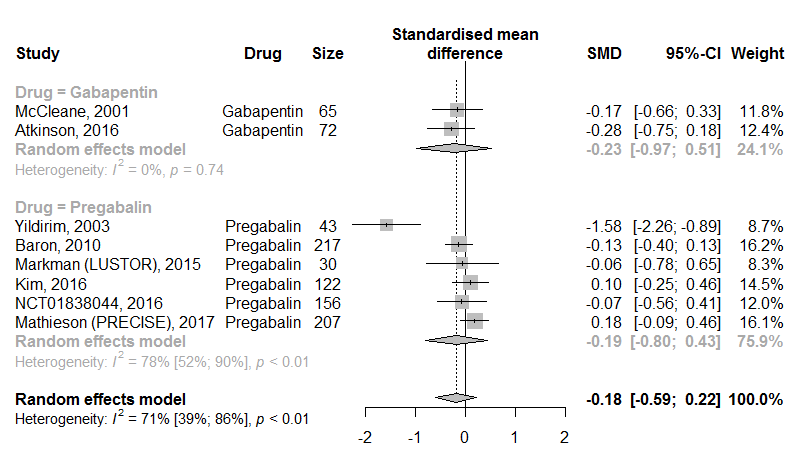
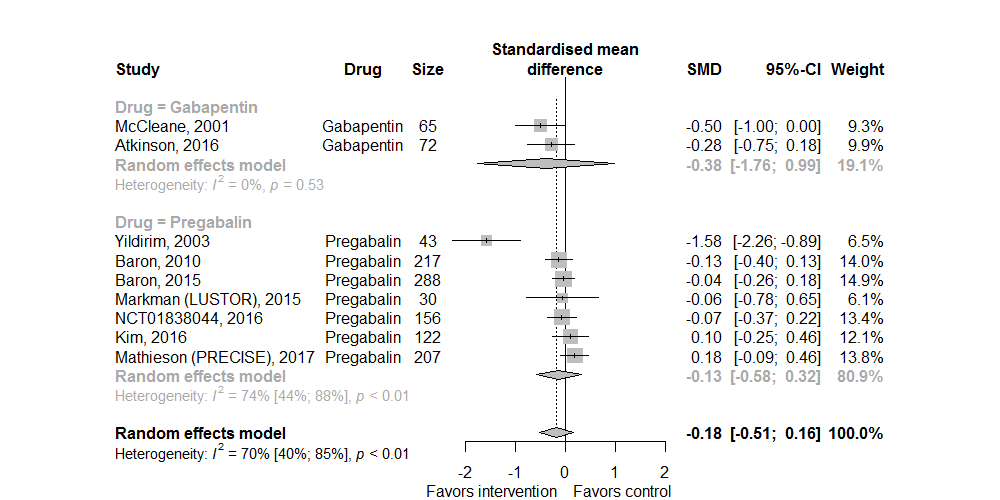
Updates with Baron, 2015

diff --git a/files/study-details/pico-table.md b/files/study-details/pico-table.md
@@ -4,14 +4,15 @@
 ## Randomized controlled trials
 Study                                                           |Patients/population/problem|Intervention|Comparison|Outcome|
 ----------------------------------------------------------------|---------------------------|------------|----------|-------|
-|Mathieson (PRECISE)<br>2017<br>PMID [28328324](http://pubmed.gov/28328324)<br>[ACTRN12613000530729](https://www.anzctr.org.au/Trial/Registration/TrialReview.aspx?id=364108) |Adults with sciatica for at least one week.<br> • Duration of leg pain: 2 months average| Pregabalin up to 300 mg twice daily | Placebo |At 8 weeks:<br> • 0 to 10 Numeric rating scale (NRS) for leg pain<br>• Roland Disability Questionnaire for Sciatica|
-|Atkinson<br>2016<br>PMID [26963844](http://pubmed.gov/26963844)<br>[NCT00108550](http://clinicaltrials.gov/show/NCT00108550)|Adults with nonspecific lumbar pain for 6 months or more.<br>• Duration of symptoms: 17 years average<br>• Subgrouped by pain with radiating pain. | Gabapentin up to 1200 mg three times a day| Placebo|At 12 weeks:<br>•  Descriptor Differential Scale (DDS)<br>• 0 to 10 Numeric rating scale (NRS)<br>• Oswestry Disability Index (ODI)|
-|Kim<br>2016<br>PMID [27045252](http://pubmed.gov/27045252)<br>[NCT01888536](http://clinicaltrials.gov/show/NCT01888536)|Adults with lumbar spinal stenosis.<br>• All patients were taking limaprost as part of a crossover trial.<br> • Duration of symptoms: 7 months average  | Pregabalin 75 mg three times a day| Placebo|At 8 weeks:<br>•  Descriptor Differential Scale (DDS)<br>• 0 to 10 Numeric rating scale (NRS)<br>• Oswestry Disability Index (ODI)<br>• Leg pain measured by visual analogue scale (VAS)<br>• Other outcomes|
-| NCT01838044 <br>2016<br>[NCT01838044](https://clinicaltrials.gov/show/NCT01838044) |Adults with chronic low back pain and "high probability of a significant neuropathic component "<br> • All patients were taking celecoxib<br> • Duration of symptoms: 3 months to 4 years| Pregabalin up to 300 mg daily |Placebo|At 5 and 10 weeks:<br>• 0 to 10 Numeric rating scale (NRS)<br>• Others|
-|Markman<br>2015<br>PMID [25503625](http://pubmed.gov/25503625)<br>[NCT00638443](http://clinicaltrials.gov/show/NCT00638443)|Adults with neurogenic claudication.<br>• Cross-over trial with 7 day washout between periods.<br>• Duration of symptoms: > 3 months with most > one year.  | Pregabalin 150 mg twice day| Placebo|At 10 days:<br>•  Descriptor Differential Scale (DDS)<br>• 0 to 10 Numeric rating scale (NRS)<br>• Oswestry Disability Index (ODI)<br>• Other outcomes|
-| Baron (A0081007 Investigators)<br>2010<br>PMID [20493632](http://pubmed.gov/20493632) |Adults with chronic lumbosacral radiculopathy due to spinal stenosis or disk herniation for at least 3 months.<br>•  Subjects must have responded to run in pregabalin but not to placebo<br> • Duration of symptoms: not reported | Pregabalin up to 600 mg daily|Placebo|At six weeks:<br>• 0 to 10 Numeric rating scale (NRS)<br>• Time to loss of response (LOR)<br>• Others|
-| Yildirim <br>2003<br>DOI [10.1163/156856903767650718](http://dx.doi.org/10.1163/156856903767650718) |Adults with chronic lumbosacral radiculopathy due to disk bulging or protrusion<br> • Duration of symptoms: 67 months average<br>•  Excluded patients intolerant of gabapentin| Gabapentin up to 1200 mg three times daily |Placebo|At eight weeks:<br>• 0 to 3 Numeric rating scale (NRS)
 | McCleane <br>2001<br>DOI [10.1163/156856901753420945](http://dx.doi.org/10.1163/156856901753420945) |Adults with low back pain and associated referred leg pain<br> • Duration of symptoms: pending full text| Gabapentin up to 1200 mg dailypentin |Placebo|At eight weeks:<br>• 0 to 10 Numeric rating scale (NRS)<br>• Others|
+| Yildirim <br>2003<br>DOI [10.1163/156856903767650718](http://dx.doi.org/10.1163/156856903767650718) |Adults with chronic lumbosacral radiculopathy due to disk bulging or protrusion<br> • Duration of symptoms: 67 months average<br>•  Excluded patients intolerant of gabapentin| Gabapentin up to 1200 mg three times daily |Placebo|At eight weeks:<br>• 0 to 3 Numeric rating scale (NRS)
+| Baron (A0081007 Investigators)<br>2010<br>PMID [20493632](http://pubmed.gov/20493632) |Adults with chronic lumbosacral radiculopathy due to spinal stenosis or disk herniation for at least 3 months.<br>•  Subjects must have responded to run in pregabalin but not to placebo<br> • Duration of symptoms: not reported | Pregabalin up to 600 mg daily|Placebo|At six weeks:<br>• 0 to 10 Numeric rating scale (NRS)<br>• Time to loss of response (LOR)<br>• Others|
+| Baron<br>2015<br>PMID [24738609](http://pubmed.gov/24738609) |Adults with chronic low back pain with neuopathic componenet.<br>•  Subjects were all taking tapentadol<br> • Duration of symptoms for at least 3 months | Pregabalin up to 300 mg daily|Placebo|At eight weeks:<br>• 0 to 10 Numeric rating scale (NRS)<br>• Others|
+| Atkinson<br>2016<br>PMID [26963844](http://pubmed.gov/26963844)<br>[NCT00108550](http://clinicaltrials.gov/show/NCT00108550)|Adults with nonspecific lumbar pain for 6 months or more.<br>• Duration of symptoms: 17 years average<br>• Subgrouped by pain with radiating pain. | Gabapentin up to 1200 mg three times a day| Placebo|At 12 weeks:<br>•  Descriptor Differential Scale (DDS)<br>• 0 to 10 Numeric rating scale (NRS)<br>• Oswestry Disability Index (ODI)|
+| Kim<br>2016<br>PMID [27045252](http://pubmed.gov/27045252)<br>[NCT01888536](http://clinicaltrials.gov/show/NCT01888536)|Adults with lumbar spinal stenosis.<br>• All patients were taking limaprost as part of a crossover trial.<br> • Duration of symptoms: 7 months average  | Pregabalin 75 mg three times a day| Placebo|At 8 weeks:<br>•  Descriptor Differential Scale (DDS)<br>• 0 to 10 Numeric rating scale (NRS)<br>• Oswestry Disability Index (ODI)<br>• Leg pain measured by visual analogue scale (VAS)<br>• Other outcomes|
+| NCT01838044 <br>2016<br>[NCT01838044](https://clinicaltrials.gov/show/NCT01838044) |Adults with chronic low back pain and "high probability of a significant neuropathic component "<br> • All patients were taking celecoxib<br> • Duration of symptoms: 3 months to 4 years| Pregabalin up to 300 mg daily |Placebo|At 5 and 10 weeks:<br>• 0 to 10 Numeric rating scale (NRS)<br>• Others|
+| Markman<br>2015<br>PMID [25503625](http://pubmed.gov/25503625)<br>[NCT00638443](http://clinicaltrials.gov/show/NCT00638443)|Adults with neurogenic claudication.<br>• Cross-over trial with 7 day washout between periods.<br>• Duration of symptoms: > 3 months with most > one year.  | Pregabalin 150 mg twice day| Placebo|At 10 days:<br>•  Descriptor Differential Scale (DDS)<br>• 0 to 10 Numeric rating scale (NRS)<br>• Oswestry Disability Index (ODI)<br>• Other outcomes|
+| Mathieson (PRECISE)<br>2017<br>PMID [28328324](http://pubmed.gov/28328324)<br>[ACTRN12613000530729](https://www.anzctr.org.au/Trial/Registration/TrialReview.aspx?id=364108) |Adults with sciatica for at least one week.<br> • Duration of leg pain: 2 months average| Pregabalin up to 300 mg twice daily | Placebo |At 8 weeks:<br> • 0 to 10 Numeric rating scale (NRS) for leg pain<br>• Roland Disability Questionnaire for Sciatica|
 
 **Footnotes:**<br>
 *

diff --git a/files/study-details/risk-of-bias.md b/files/study-details/risk-of-bias.md
@@ -1,8 +1,6 @@
 # Risk of bias table
 ([switch to PICO table](pico-table.md))
 
-<i>Under construction</i>
-
 ## Randomized controlled trials
 Based on [Cochrane Handbook](http://handbook.cochrane.org/chapter_8/table_8_5_d_criteria_for_judging_risk_of_bias_in_the_risk_of.htm). Modifications are:
 * Selective reporting bias is high risk if trial protocol is not registered.(PMID [26244868](https://pubmed.gov/26244868))
@@ -10,11 +8,15 @@ Based on [Cochrane Handbook](http://handbook.cochrane.org/chapter_8/table_8_5_d_
 
 |  Study        | Selection bias:<br/><br/>Random sequence generation<br/>| <br/><br/><br/><br/>Allocation concealment|Performance bias:<br/>Blinding of participants and personnel|Detection bias:<br/><br/>Blinding of outcome assessment<br/>|Attrition bias:<br/><br/>Incomplete outcome data<br/>|Reporting bias:<br/><br/><br/>Selective reporting|Other biases:<br/><br/>E.g. imbalanced compliance , co-interventions, or other<br/>|
 | -------------------------------------|:---------|:---------|:--------------|:------------|:----------|:----------|:----------|
-| Mathieson (PRECISE)<br/>2017<br/>PMID [28328324](http://pubmed.gov/28328324)<br/>[ACTRN12613000530729](https://www.anzctr.org.au/Trial/Registration/TrialReview.aspx?id=364108)|Low risk |Low  risk |Low risk |Low risk |Low risk |Low risk| Low risk|
+|McCleane<br>2001<br>DOI [10.1163/156856901753420945](http://dx.doi.org/10.1163/156856901753420945) |Low risk   |Unclear risk as method not described|Low risk |Low risk |Unclear risk† |Unclear risk\*|Low risk|
+|Yildrim<br>2003<br>PMID [25503625](http://pubmed.gov/25503625)  |Low risk   |Unclear risk as method not described |Low risk |Low risk |Unclear risk† |Unclear risk\*| Low risk|
+|Baron<br>2010<br>PMID [25503625](http://pubmed.gov/25503625)    |High risk± |Low  risk |Low risk |Low risk |Low risk |Unclear risk\*| Low risk|
+|Baron<br>2015<br>PMID [24738609](http://pubmed.gov/24738609)    |High risk± |Unclear risk as method not described  |Low risk |Low risk |Low risk |Unclear risk\*| Low risk|
+|Markman<br>2015<br>PMID [25503625](http://pubmed.gov/25503625)<br>[NCT00638443](http://clinicaltrials.gov/show/NCT00638443)|Low risk |Low  risk |Low risk |Low risk |Low risk |Low risk| Unclear risk due to cross-over design and not reporting period or sequence effects|
 |Atkinson<br>2016<br>PMID [26963844](http://pubmed.gov/26963844)<br>[NCT00108550](http://clinicaltrials.gov/show/NCT00108550)|Low risk |Low  risk |Low risk |Low risk |Low risk |Low risk| Low risk|
 |Kim<br>2016<br>PMID [27045252](http://pubmed.gov/27045252)<br>[NCT01888536](http://clinicaltrials.gov/show/NCT01888536)|Low risk |Low  risk |Low risk |Low risk |Low risk |Low risk| Low risk|
-| NCT01838044 <br>2016<br>[NCT01838044](https://clinicaltrials.gov/show/NCT01838044)|Unclear risk as method not described|Unclear risk as method not described |Unclear risk as method not described |Unclear risk as method not described |High risk |Low risk| Unclear risk due to no peer review|
-|Markman<br>2015<br>PMID [25503625](http://pubmed.gov/25503625)<br>[NCT00638443](http://clinicaltrials.gov/show/NCT00638443)|Low risk |Low  risk |Low risk |Low risk |Low risk |Low risk| Unclear risk due to cross-over design and not reporting period or sequence effects|
+|NCT01838044 <br>2016<br>[NCT01838044](https://clinicaltrials.gov/show/NCT01838044)|Unclear risk as method not described|Unclear risk as method not described |Unclear risk as method not described |Unclear risk as method not described |High risk |Low risk| Unclear risk due to no peer review|
+|Mathieson (PRECISE)<br/>2017<br/>PMID [28328324](http://pubmed.gov/28328324)<br/>[ACTRN12613000530729](https://www.anzctr.org.au/Trial/Registration/TrialReview.aspx?id=364108)|Low risk |Low  risk |Low risk |Low risk |Low risk |Low risk| Low risk|
 
 **Footnotes:**<br>
 \* Attrition bias is 'unclear risk" as Consort flow diagram not provided.<br>
